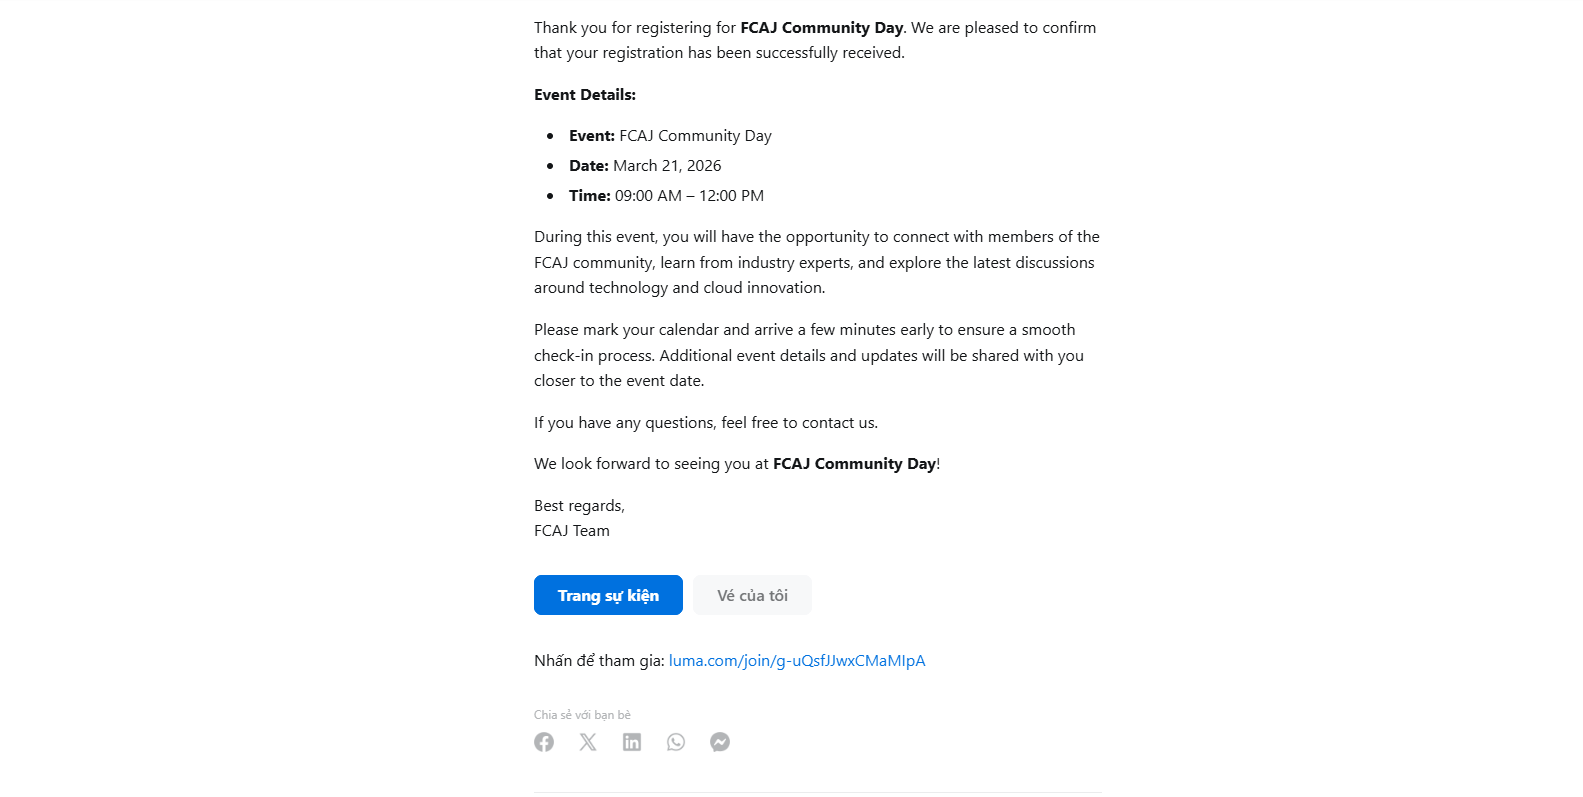
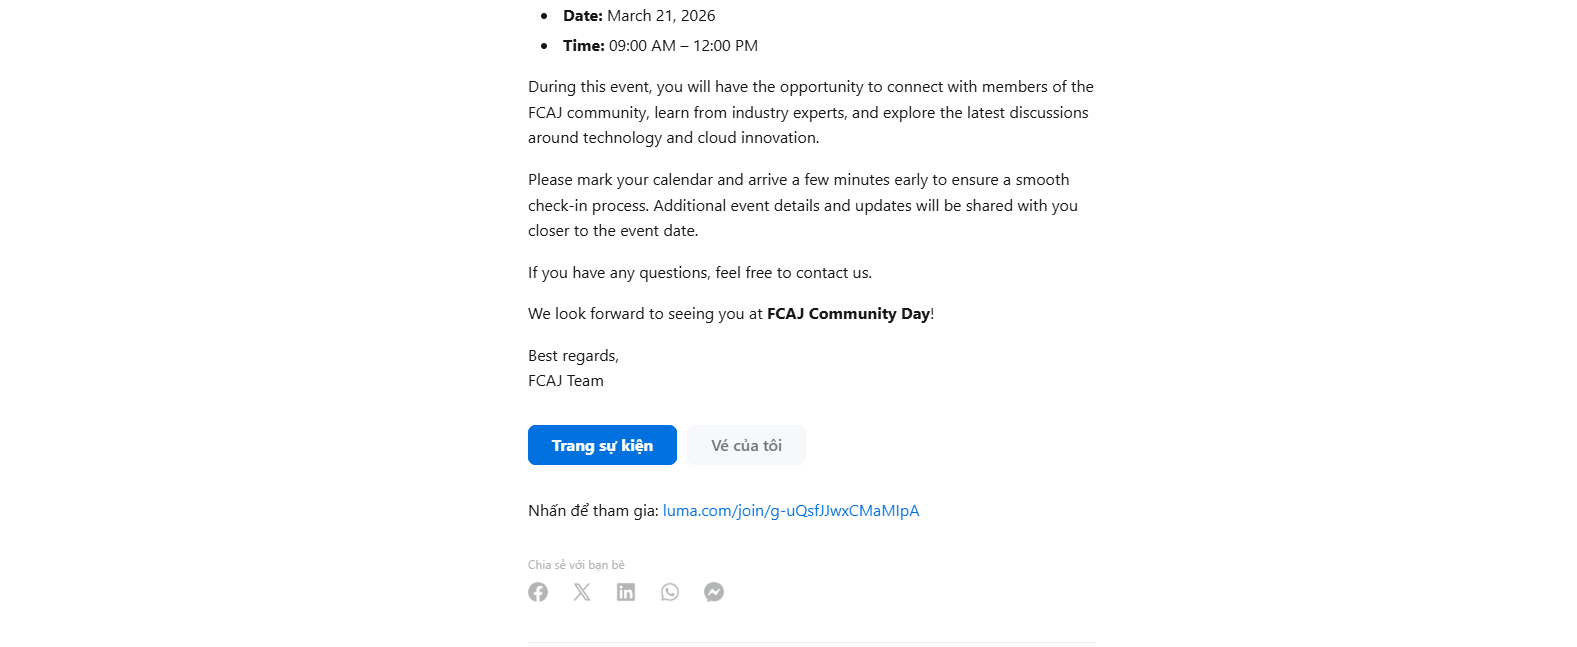
Updates: Worklog title

diff --git a/content/4-EventParticipated/4.1-Event1/_index.vi.md b/content/4-EventParticipated/4.1-Event1/_index.vi.md
@@ -118,8 +118,6 @@ Các diễn giả trình bày rõ ràng, kết hợp giữa kiến thức nền 
 
 - Dưới đây là một số hình ảnh trong sự kiện được chụp từ các anh chị **Admin** trong **AWS Study Group**:
 
-![Event Participated](/fcaj-workshop-threenines/images/4-EventParticipated/4.1-Event1/event_4.png)
-
 ![Event Participated](/fcaj-workshop-threenines/images/4-EventParticipated/4.1-Event1/event_5.png)
 
 ![Event Participated](/fcaj-workshop-threenines/images/4-EventParticipated/4.1-Event1/event_6.png)

diff --git a/content/4-EventParticipated/4.1-Event1/_index.md b/content/4-EventParticipated/4.1-Event1/_index.md
@@ -118,8 +118,6 @@ From my perspective, this was a valuable event because it not only provided tech
 
 - Here are some images from the event captured by the **Admins** in the **AWS Study Group**:
 
-![Event Participated](/fcaj-workshop-threenines/images/4-EventParticipated/4.1-Event1/event_4.png)
-
 ![Event Participated](/fcaj-workshop-threenines/images/4-EventParticipated/4.1-Event1/event_5.png)
 
 ![Event Participated](/fcaj-workshop-threenines/images/4-EventParticipated/4.1-Event1/event_6.png)

diff --git a/content/1-Worklog/1.7-Week7/_index.md b/content/1-Worklog/1.7-Week7/_index.md
@@ -1,5 +1,5 @@
 ---
-title: "Worklog Week 7"
+title: "Week 7 Worklog"
 date: 2024-01-01
 weight: 1
 chapter: false

diff --git a/content/1-Worklog/1.8-Week8/_index.md b/content/1-Worklog/1.8-Week8/_index.md
@@ -1,5 +1,5 @@
 ---
-title: "Worklog Week 8"
+title: "Week 8 Worklog"
 date: 2024-01-01
 weight: 1
 chapter: false

diff --git a/content/4-EventParticipated/4.3-Event3/_index.vi.md b/content/4-EventParticipated/4.3-Event3/_index.vi.md
@@ -1,0 +1,7 @@
+---
+title: "Event 3"
+date: 2024-01-01
+weight: 1
+chapter: false
+pre: " <b> 4.3. </b> "
+---
